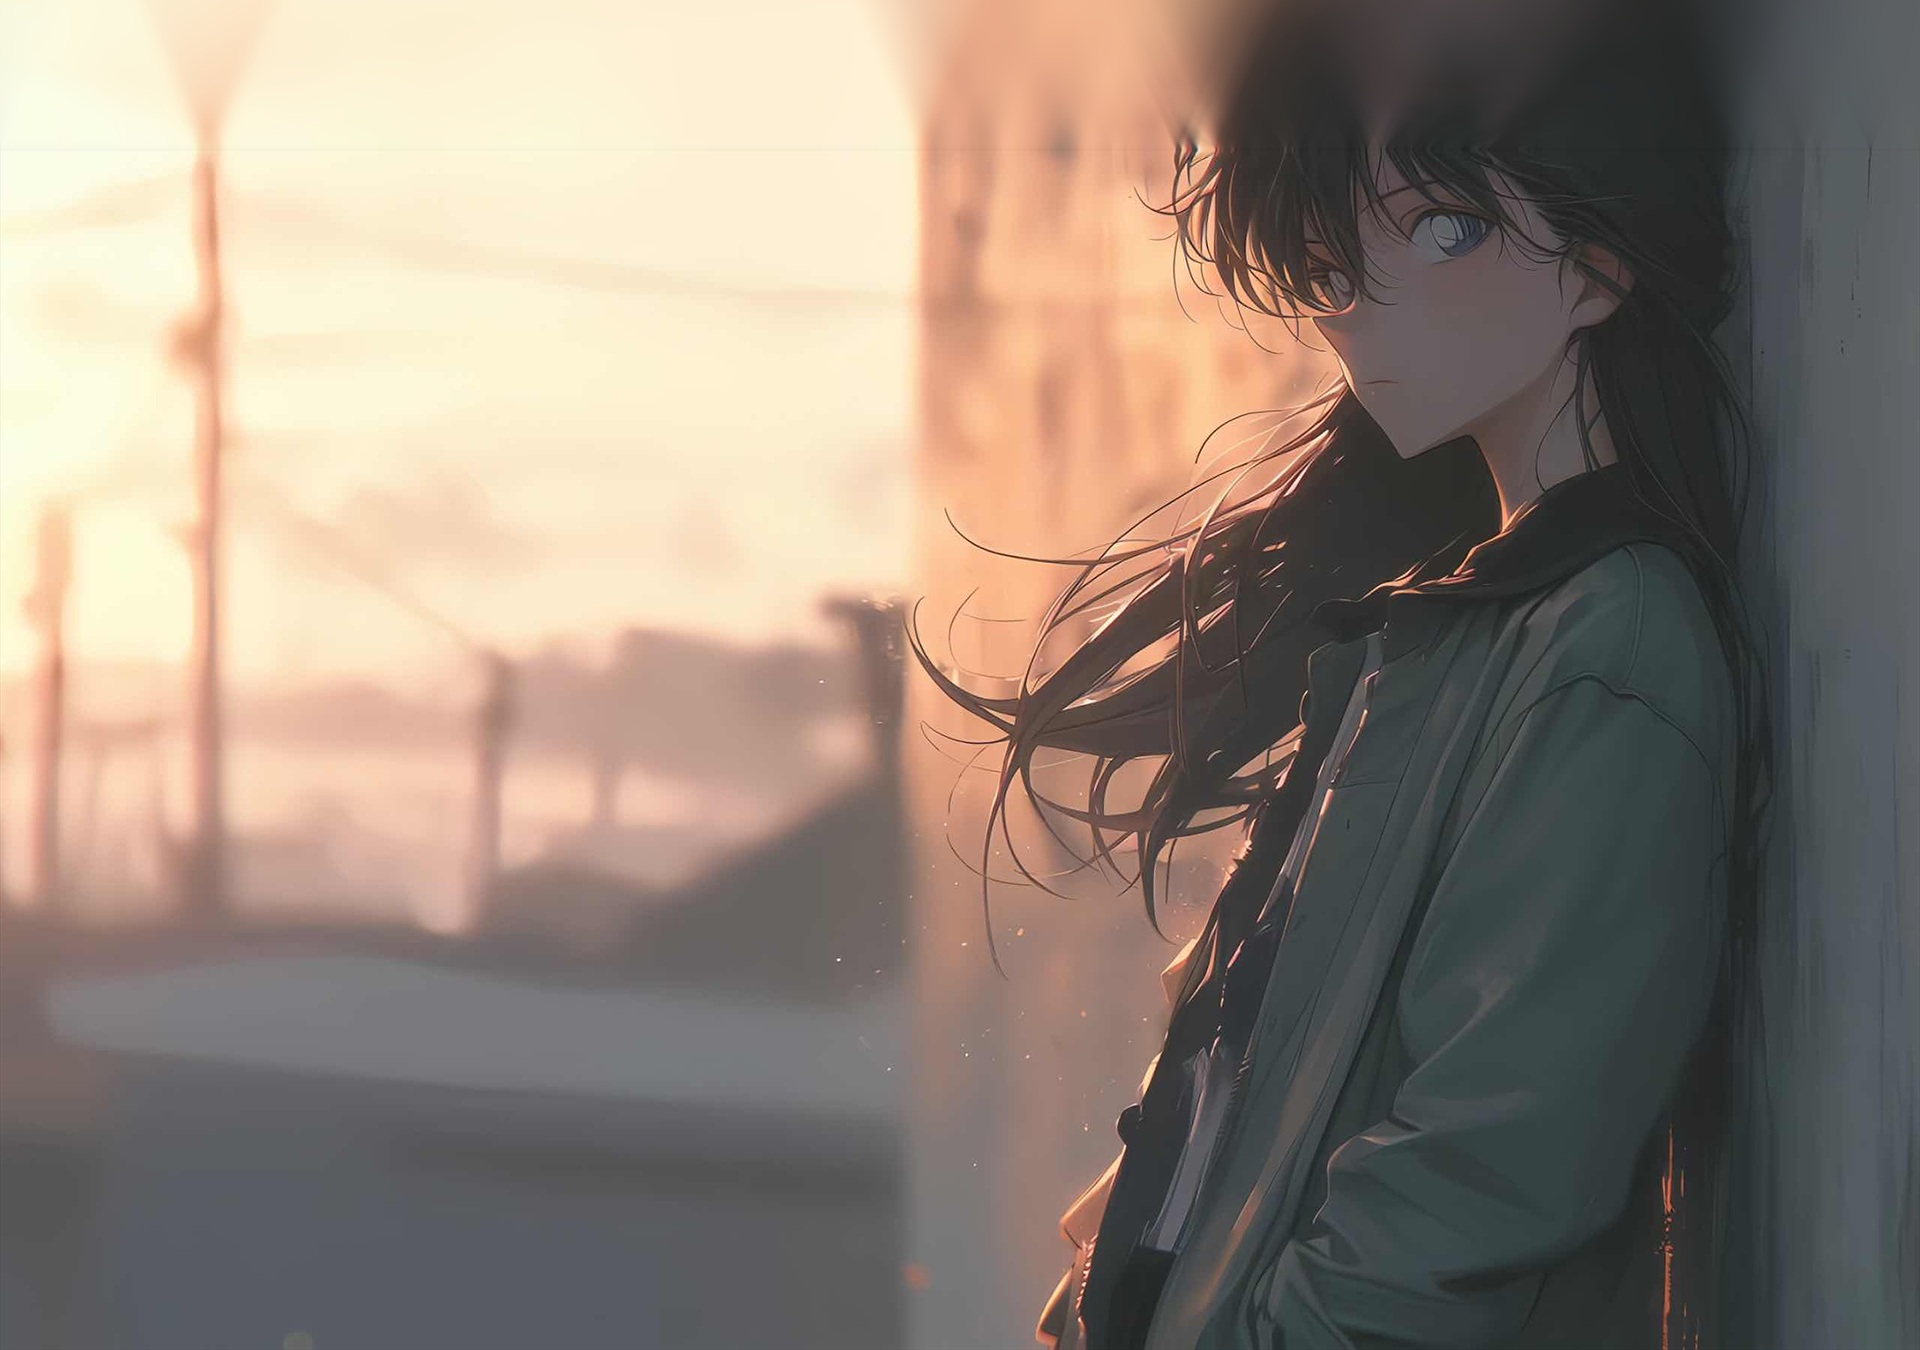
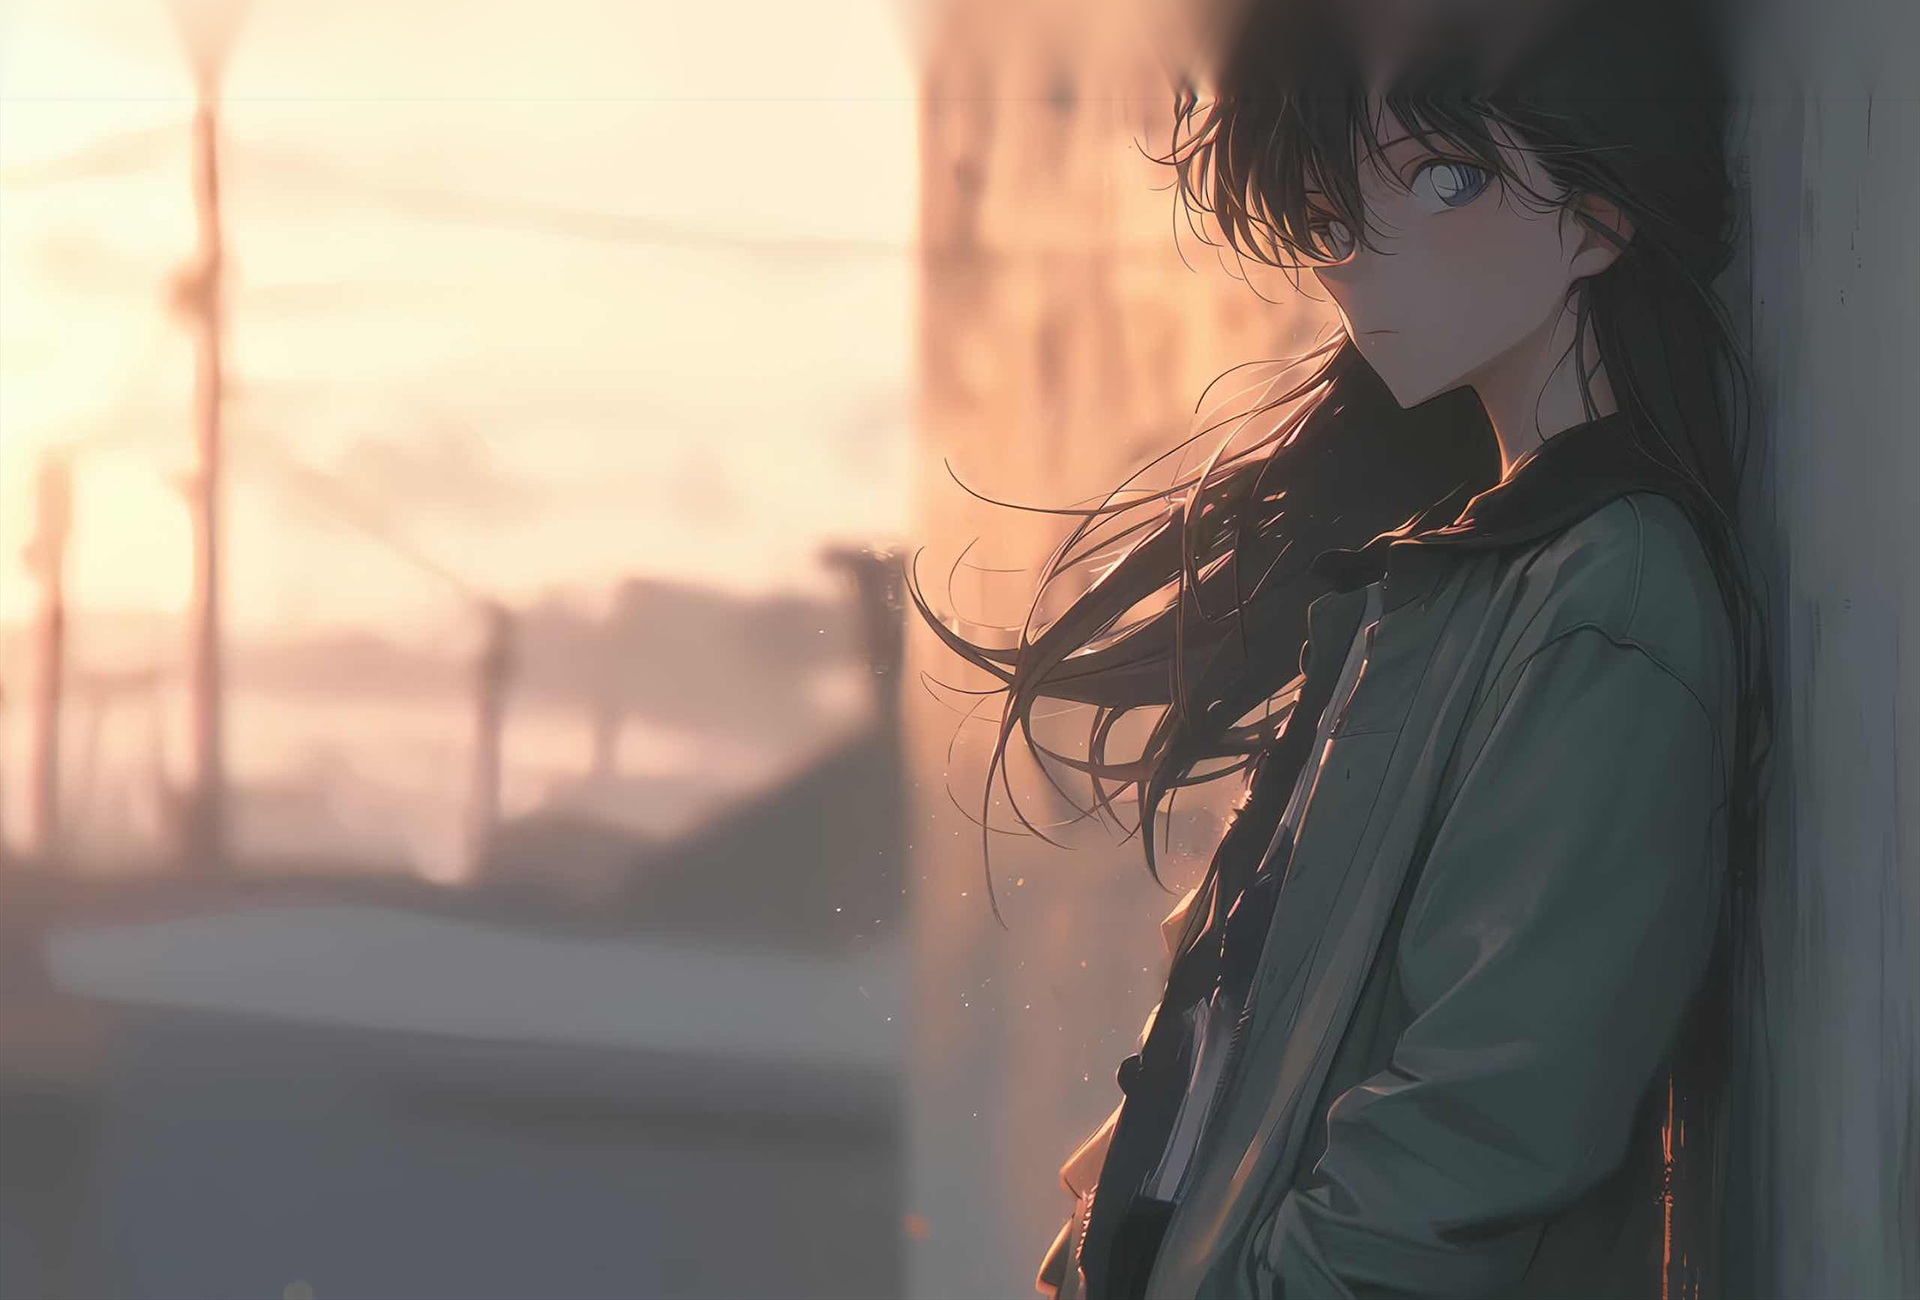
顶部留白从 150px 缩到 100px，减轻背景上方的渐进虚化

diff --git a/assets/css/extended/background.css b/assets/css/extended/background.css
@@ -3,7 +3,7 @@
    --------------------------------------------------------------------------
    背景图的 URL 由 layouts/_partials/extend_head.html 注入到 --bg-image 变量。
    换图：直接替换 assets/images/bg.jpg 即可，不需要改这里的代码。
-   注意 bg.jpg 顶部预留了 150px 的「留白」（生成脚本做的渐进虚化延续）：
+   注意 bg.jpg 顶部预留了 100px 的「留白」（生成脚本做的渐进虚化延续）：
    人物原本头顶贴着上边缘，60px 高的导航栏会把它压住，所以图上必须先有
    多余空间，再配合 background-position: center top 让脸落到导航栏下方。
 
@@ -39,7 +39,7 @@ body.list,
        并在下面的 :root 里补回 --bg-scrim 变量即可。 */
     background-image: var(--bg-image, none);
     background-size: cover;
-    /* top 而不是 center：图片顶部有 150px 留白，贴着顶部才能保证
+    /* top 而不是 center：图片顶部有 100px 留白，贴着顶部才能保证
        人物的脸落在 60px 高的导航栏下方（center 会把留白裁掉一半） */
     background-position: center top;
     background-repeat: no-repeat;

diff --git a/README.md b/README.md
@@ -83,7 +83,7 @@ showToc: true                     # 是否显示右侧目录
 
 ## 背景图
 
-全站背景图是 `assets/images/bg.jpg`（当前是 **1920×1350** 的动漫壁纸，由桌面的 `111.jpg` 处理而来），
+全站背景图是 `assets/images/bg.jpg`（当前是 **1920×1300** 的动漫壁纸，由桌面的 `111.jpg` 处理而来），
 由 Hugo 自动转成 WebP 并加内容指纹。
 
 **换图：直接替换 `assets/images/bg.jpg` 就行，不用改任何代码。**
@@ -103,24 +103,29 @@ showToc: true                     # 是否显示右侧目录
 - `--entry`：文章列表卡片的透明度
 - `--secondary`：灰色小字（日期、摘要、面包屑）的颜色。主题原本是 `rgb(108,108,108)`，压在半透明面板上几乎看不见，这里压到 `rgb(72,72,72)`；深色模式从 `rgb(155,156,157)` 提亮到 `rgb(178,179,180)`
 - `.main` 的 `blur(6px)`：毛玻璃模糊强度，调小背景更清晰但文字对比度会下降
-- `background-position: center top`：**不要改成 center**。图片顶部有 150px 留白，只有贴顶才能保证人物的脸落在 60px 高的导航栏下方（`center` 会把留白裁掉一半，脸又被导航栏压住）
+- `background-position: center top`：**不要改成 center**。图片顶部有 100px 留白，只有贴顶才能保证人物的脸落在 60px 高的导航栏下方（`center` 会把留白裁掉一半，脸又被导航栏压住）
 
 > ⚠ `--panel` 调太低（低于 0.25）之后，正文里那些灰色小字
 > （`--secondary`，比如首页的简介、文章日期）对比度会不够，阅读会吃力。
 
-### 顶部那 150px 留白是怎么来的
+### 顶部那 100px 留白是怎么来的
 
 这张图的人物**头顶正好贴着图片上边缘**，而导航栏高 60px——不管屏幕多宽，脸都会被压住一半，
 光调 `background-position` 没用（图里上方根本没有画面可以露出来）。
 
-所以在图片上方补了 150px，做法是「**渐进虚化**」，脚本在
+所以在图片上方补了 100px，做法是「**渐进虚化**」，脚本在
 `%TEMP%\opencode\bg-top2.ps1`（也可以随时重新生成）：
 
 - 距接缝第 `d` 行的像素 = 原图前 `d` 行的平均值 → `d=1` 时正好等于原图第一行，所以**接缝完全连续**
 - 同时横向模糊半径也随 `d` 增大 → 越往上越糊，不会出现「一整块死板色带」
 - 最上面自然变成天空和头发的柔和延伸，肉眼看不出是补的
 
-用法：`bg-top2.ps1 [留白像素数]`（默认 150），源图路径写在脚本第 118 行。
+用法：`bg-top2.ps1 [留白像素数]`（当前用 100），源图路径写在脚本第 118 行。
+
+> ⚠ 留白不能压得太小。人物头顶恰好是图片第一行，而 `background-size: cover`
+> 在不同窗口尺寸下的缩放系数不同：留白 100px 时，1920×1080 的窗口里脸距离
+> 导航栏还有约 40px 余量，但 800×600 这种又小又宽的窗口只剩十几像素。
+> 想更激进地压缩留白，最好同时把 `--header-height` 或面板间距一起调。
 
 ### 图片处理流程
 
@@ -128,7 +133,7 @@ showToc: true                     # 是否显示右侧目录
 
 1. 用高质量重采样缩到 **1920 宽**（约等于 1080p 全屏尺寸）
 2. 做一次**轻度锐化**（unsharp mask，强度 0.15 左右），抵消重采样带来的软化
-3. 在顶部补 150px 留白（见上一节）
+3. 在顶部补 100px 留白（见上一节）
 4. 存成 JPEG（q95）→ 交给 Hugo 转 WebP（q90）
 
 当前这张就是从 2559×1599 的 `111.jpg` 走完这套流程出来的。
